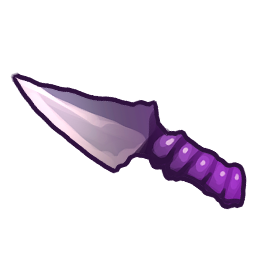
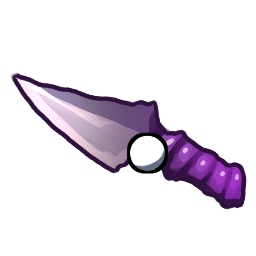
Updated scenes

Changed region(s): [[0.4688, 0.5, 0.6562, 0.6875]]

diff --git a/AWG/js/game.js b/AWG/js/game.js
@@ -34,6 +34,103 @@
         this.invCode = localStorage.getItem(this.saveKey+"_invCode")
         
         
+
+
+        this.cutscene 
+        //load objects for scene
+        switch(this.sceneNum){
+          case 1:
+            this.knife = this.add.sprite(this.game.width/2, this.game.height/2, 'knife');
+            this.knife.anchor.setTo(0.5, 0.5);  
+            this.knife.inputEnabled = true;
+            this.knife.id = 1
+            this.knife.events.onInputDown.add(this.pickUp, this);         
+
+            this.s1o1= this.add.sprite(this.game.width/2+328, this.game.height+5, 's1o1');
+            this.s1o1.anchor.setTo(0.5, 1);       
+            this.s1o1.inputEnabled = true;
+            this.s1o1.id = 5
+            this.s1o1.events.onInputDown.add(this.inspect, this);   
+            
+            this.s1o2= this.add.sprite(0, 0, 's1o2');     
+            this.s1o2.inputEnabled = true;
+            this.s1o2.id = 6
+            this.s1o2.events.onInputDown.add(this.inspect, this);
+            
+            this.s1o3= this.add.sprite(this.game.width,0, 's1o3');
+            this.s1o3.anchor.setTo(1, 0);       
+            this.s1o3.inputEnabled = true;
+            this.s1o3.id = 7
+            this.s1o3.scene = true
+            this.s1o3.events.onInputDown.add(this.inspect, this);               
+            
+            break;
+          case 2:
+            this.feather = this.add.sprite(100, this.game.height-200, 'feather');
+            this.feather.anchor.setTo(0.5, 0.5);  
+            this.feather.inputEnabled = true;
+            this.feather.id = 2
+            this.feather.scale.x = 0.2;
+            this.feather.scale.y = 0.2;             
+            this.feather.events.onInputDown.add(this.pickUp, this);              
+            break;
+          case 4:
+            this.s4o1 = this.add.sprite(this.game.width/2,this.game.height/2, 's4o1');
+            this.s4o1.anchor.setTo(0.5, 0.5);  
+            this.s4o1.inputEnabled = true;
+            this.s4o1.id = 26      
+            this.s4o1.events.onInputDown.add(this.inspect, this);              
+            break;   
+            
+          case 5:
+            this.birdCount = 3;
+
+            this.birdLight1 = this.add.sprite(0,0, 'birdLight1');
+            this.birdLight1.width = this.game.width
+            this.birdLight1.height = this.game.height
+            this.birdLight2 = this.add.sprite(0,10, 'birdLight2');
+            this.birdLight2.width = this.game.width
+            this.birdLight2.height = this.game.height
+            this.birdLight3 = this.add.sprite(0,0, 'birdLight3');
+            this.birdLight3.width = this.game.width
+            this.birdLight3.height = this.game.height                        
+
+            this.rabbit = this.add.sprite(0,0, 'rabbit');
+            this.rabbit.width = this.game.width
+            this.rabbit.height = this.game.height            
+            
+            this.s5o1 = this.add.sprite(this.game.width-300,this.game.height/2-150, 's5o1');
+            this.s5o1.anchor.setTo(0.5, 0.5);  
+            this.s5o1.inputEnabled = true;
+            this.s5o1.id = 35      
+            this.s5o1.birdNum =1  
+            this.s5o1.events.onInputDown.add(this.inspect, this);     
+            
+            this.s5o2 = this.add.sprite(150,this.game.height/2-120, 's5o2');
+            this.s5o2.anchor.setTo(0.5, 0.5);  
+            this.s5o2.inputEnabled = true;
+            this.s5o2.id = 35  
+            this.s5o2.birdNum =2    
+            this.s5o2.events.onInputDown.add(this.inspect, this);     
+            
+            this.s5o3 = this.add.sprite(this.game.width/2+200,this.game.height/2-400, 's5o3');
+            this.s5o3.anchor.setTo(0.5, 0.5);  
+            this.s5o3.inputEnabled = true;
+            this.s5o3.id = 35   
+            this.s5o3.birdNum =3       
+            this.s5o3.events.onInputDown.add(this.inspect, this);                 
+            break;               
+        }
+
+        this.modal = this.add.sprite(0, 0, 'modal');
+        this.modal.width = this.game.width
+        this.modal.height = this.game.height  
+        this.modal.alpha = 0;
+
+        this.sceneImage = this.add.sprite(-this.game.width, -this.game.height, 'modal');
+        this.sceneImage.anchor.setTo(0.5, 0.5); 
+     
+
         var distX = this.game.width/2-(100*((this.invCount-1)/2))
         var spaceX = 100
         this.inv = []
@@ -54,28 +151,7 @@
           this.inv[i].events.onInputDown.add(this.useInv, this);   
 
           distX+=spaceX        
-        }
-
-        //load objects for scene
-        switch(this.sceneNum){
-          case 1:
-            this.knife = this.add.sprite(this.game.width/2, this.game.height/2, 'knife');
-            this.knife.anchor.setTo(0.5, 0.5);  
-            this.knife.inputEnabled = true;
-            this.knife.id = 1
-            this.knife.events.onInputDown.add(this.pickUp, this);              
-            break;
-          case 2:
-            this.feather = this.add.sprite(100, this.game.height-200, 'feather');
-            this.feather.anchor.setTo(0.5, 0.5);  
-            this.feather.inputEnabled = true;
-            this.feather.id = 2
-            this.feather.scale.x = 0.2;
-            this.feather.scale.y = 0.2;             
-            this.feather.events.onInputDown.add(this.pickUp, this);              
-            break;            
-        }
-
+        }        
 
 
         this.chatNameBox = this.add.sprite(this.game.width/2, this.game.height*5, 'chatName');
@@ -120,8 +196,17 @@
             //scene specific dailog
             switch(this.sceneNum){
               case 2:
-                this.startChat()
+                this.startChat(10)
                 break;
+              case 3:
+                this.startChat(19)
+                break; 
+              case 4:
+                this.startChat(23)
+                break;
+              case 5:
+                this.startChat(29)
+                break;                                                
             }
           }, this);        
           transitionTween.start()          
@@ -217,12 +302,23 @@
           
         } 
       },  
-      startChat: function(){
-          this.dialogCounter = 0;
-          if(localStorage.getItem(this.saveKey+"_dialogCounter") !== null){
-            this.dialogCounter = parseInt(localStorage.getItem(this.saveKey+"_dialogCounter")) 
-          }                      
-          var chatTween = this.add.tween(this.chatBox).to( { y: this.game.height/2 }, 500, Phaser.Easing.Cubic.Out);
+      startChat: function(key,chatYPos){
+
+        if(chatYPos == undefined ){
+          chatYPos = this.game.height/2;
+        }
+          if(key == undefined){
+            this.dialogCounter = 0;
+
+            if(localStorage.getItem(this.saveKey+"_dialogCounter") !== null){
+              this.dialogCounter = parseInt(localStorage.getItem(this.saveKey+"_dialogCounter")) 
+            }     
+          }
+          else{
+            this.dialogCounter = key;
+          }
+                 
+          var chatTween = this.add.tween(this.chatBox).to( { y: chatYPos }, 500, Phaser.Easing.Cubic.Out);
           chatTween.onComplete.addOnce(function(){
               this.showChat()
           }, this);  
@@ -303,15 +399,25 @@
 
           }
           else{
-
-              this.closeChat();
+              var currentCounter = parseInt(localStorage.getItem(this.saveKey+"_dialogCounter")) 
+              if(this.birdCount <= 0 && currentCounter == 36){
+                this.startChat(36)
+              }
+              else{
+                this.closeChat();
+              }
+              
           }
         }
 
       },  
       closeChat: function (location) {
           console.log("CLOSING CHAAAAAAAAAAAAAAAAAT")
-       
+
+          this.modal.alpha = 0
+          this.sceneImage.x = -this.game.width
+          this.sceneImage.y = -this.game.height
+          
           var chatTween = this.add.tween(this.chatBox).to( { y: this.game.height*5}, 500, Phaser.Easing.Cubic.Out);
           chatTween.onComplete.addOnce(function(){
             if(this.goToNextScene){
@@ -378,6 +484,58 @@
           tweenWidth.start();
           tweenHeight.start();      
       },  
+      inspect: function (item) {
+        
+        if(item.scene != undefined){
+          this.modal.alpha = 1;
+          this.sceneImage.loadTexture('sceneImage'+this.s1o3.id)
+          this.sceneImage.x = this.game.width/2
+          this.sceneImage.y = this.game.height/2-200
+          this.startChat(item.id,this.game.height/2+200)
+          
+        }
+        else{
+          switch(item.id){
+            default:
+              this.startChat(item.id)
+              break;
+            case 25:
+              if(this.cursorKey == 1){
+                this.startChat(item.id)
+              }
+              else{
+                this.startChat(23)
+              }              
+              break;
+            case 35:
+              if(this.cursorKey == 1){
+                if(item.birdNum == 1){
+                  this.s5o1.y = -this.game.height
+                  this.birdLight1.alpha = 0;
+                  this.birdCount--
+                }
+                if(item.birdNum == 2){
+                  this.s5o2.y = -this.game.height
+                  this.birdLight2.alpha = 0;
+                  this.birdCount--
+                  
+                }        
+                if(item.birdNum == 3){
+                  this.s5o3.y = -this.game.height
+                  this.birdLight3.alpha = 0;
+                  this.birdCount--
+
+                }                        
+                this.startChat(item.id)
+              }
+              else{
+                this.startChat(34)
+              }              
+              break;              
+          }
+          
+        }
+      },
       pickUp: function (item){
           var tweenPick = this.add.tween(item).to( { x: this.inv[this.invKey].x, y: this.inv[this.invKey].y}, 250, Phaser.Easing.Cubic.Out);                    
           tweenPick.onComplete.addOnce(function(){
@@ -391,10 +549,10 @@
               //follow up action depending on scene
               switch(this.sceneNum){
                 case 1:
-                  this.startChat();
+                  this.startChat(8);
                   break;
                 case 2:
-                  this.startChat();
+                  this.startChat(16);
                   break;                  
               }
 

diff --git a/AWG/js/dialog.js b/AWG/js/dialog.js
@@ -7,17 +7,46 @@ function loadScript(){
     dialog[2] = "yara(happy)-I feel like I'm being sent on a fool's errand."
     dialog[3] = "yara(happy)-But what else can I do?"
     dialog[4] = "yara(happy)-Before I head out on this 'Quest'\nI need to make sure I have my tools...-END"
-    dialog[5] = "yara(happy)-All right. Let's go, Yara..."
-    dialog[6] = "yara(happy)-You can do this-NEXTSCENE"
-    dialog[7] = "yara(happy)-It's been a few short years ..."
-    dialog[8] = "yara(happy)-And now these streets are so different than I remember"
-    dialog[9] = "yara(happy)-Cold dark towers grasping for the sky ..."
-    dialog[10] = "yara(happy)-Wires choking everything ..."
-    dialog[11] = "yara(happy)-Strange 'birds' everywhere ..."
-    dialog[12] = "yara(happy)-Wait ... is that a feather?-END"
-    dialog[13] = "yara(happy)-Pretty"
-    dialog[14] = "yara(happy)-I see more in the distance"
-    dialog[15] = "yara(happy)-Whatever left these seems to have been heading to the swamp?-NEXTSCENE"
+    dialog[5] = "yara(happy)-Now's not the time to sit, Yara.\n You need to get ready to head out...-END"
+    dialog[6] = "yara(happy)-I remember when this plant was just a small sprout.\n Look at how it's grown...-END"
+    dialog[7] = "yara(happy)-The village has changed so much...-END"    
+    dialog[8] = "yara(happy)-All right. Let's go, Yara..."
+    dialog[9] = "yara(happy)-You can do this-NEXTSCENE"
+
+    dialog[10] = "yara(happy)-It's been a few short years ..."
+    dialog[11] = "yara(happy)-And now these streets are so different than I remember"
+    dialog[12] = "yara(happy)-Cold dark towers grasping for the sky ..."
+    dialog[13] = "yara(happy)-Wires choking everything ..."
+    dialog[14] = "yara(happy)-Strange 'birds' everywhere ..."
+    dialog[15] = "yara(happy)-Wait ... is that a feather?-END"
+    dialog[16] = "yara(happy)-Pretty"
+    dialog[17] = "yara(happy)-I see more in the distance"
+    dialog[18] = "yara(happy)-Whatever left these seems to have been heading to the swamp?-NEXTSCENE"
+
+    dialog[19] = "yara(happy)-The great old Boabab Tree..."
+    dialog[20] = "yara(happy)-Is that the one they spoke of?"
+    dialog[21] = "yara(happy)-I don't remember it ever talking though ..."
+    dialog[22] = "yara(happy)-Maybe I need to reach it first?-NEXTSCENE"
+
+    dialog[23] = "yara(happy)-This swamp is so dense ..."
+    dialog[24] = "yara(happy)-And those creepy birs are also everywhere..."
+    dialog[25] = "yara(happy)-Maybe if I use my knife I can cut my way through?-END"
+    dialog[26] = "yara(happy)-No matter how much I cut the vines keep growing back"
+    dialog[27] = "???(happy)-LEAVE ME ALONE!!!!!!!"
+    dialog[28] = "yara(happy)-Sounds like someone needs help -NEXTSCENE"
+
+
+    dialog[29] = "rabbit(happy)-LEAVE ME ALONE YOU STUPID SURVEILANCE BIRDS!"
+    dialog[30] = "rabbit(happy)-STOP WATCHING ME ALL THE TIME!!!"
+    dialog[31] = "rabbit(happy)-WHAT DO YOU WANT?!?!"
+    dialog[32] = "yara(happy)-Wait ... is that a flying rabbit?"
+    dialog[33] = "rabbit(happy)-YOU!\nThank goodness you're here...\nCan you help me?"
+    dialog[34] = "yara(happy)-I should be able to use my knife to scare them away-END"
+    dialog[35] = "yara(happy)-Away with you Vile Bird!-END"
+    dialog[36] = "rabbit(happy)-THANK YOU! THANK YOU! THANK YOU!"
+    dialog[37] = "yara(happy)-No worries...\nI was sent to find you..."
+    dialog[38] = "rabbit(happy)-Yes!\nI'm to be your guide.-NEXTSCENE"
+    
 
 
 }

diff --git a/AWG/js/preloader.js b/AWG/js/preloader.js
@@ -36,12 +36,16 @@
 
             this.load.image('cursor_0', 'assets/hand_point.png');
             
+            //inventory
             this.load.image('knife', 'assets/knife.png');
             this.load.image('feather', 'assets/feather.png');
 
             this.load.image('chatbox', 'assets/chatBox.png');
             this.load.image('chatName', 'assets/chatName.png');
             this.load.image('chibi-yara-happy', 'assets/yara_neutral.png');
+
+            this.load.image('chibi-rabbit-happy', 'assets/rabbit_neutral.png');
+            this.load.image('chibi-???-happy', 'assets/unknown_neutral.png');
 
             for(var i = 1; i <= 11; i++){
                 this.load.image('scene'+i, 'assets/S-'+i+'.png');
@@ -51,6 +55,33 @@
             this.load.image('inventory_1', 'assets/inventory_1.png');
             this.load.image('inventory_2', 'assets/inventory_2.png');
 
+
+            this.load.image('s1o1', 'assets/s1_o1.png');
+            this.load.image('s1o1_clicked', 'assets/s1_o1_clicked.png');
+            this.load.image('s1o2', 'assets/s1_o2.png');
+            this.load.image('s1o2_clicked', 'assets/s1_o2_clicked.png');   
+            this.load.image('s1o3', 'assets/s1_o3.png');
+            this.load.image('s1o3_clicked', 'assets/s1_o3_clicked.png');                        
+
+            this.load.image('s4o1', 'assets/s4_o1.png');
+
+
+            this.load.image('birdLight1', 'assets/birdLight1.png');
+            this.load.image('birdLight2', 'assets/birdLight2.png');
+            this.load.image('birdLight3', 'assets/birdLight3.png');
+
+            this.load.image('s5o1', 'assets/bird1.png');
+            this.load.image('s5o2', 'assets/bird2.png');
+            this.load.image('s5o3', 'assets/bird3.png');
+
+
+            this.load.image('rabbit', 'assets/rabbit.png');
+
+            this.load.image('sceneImage7', 'assets/outsideScene.png');
+            this.load.image('modal', 'assets/modal.png');
+
+            this.load.image('node', 'assets/node.png');
+            this.load.image('node_clicked', 'assets/node_clicked.png');
           
         }
         , create: function () {
